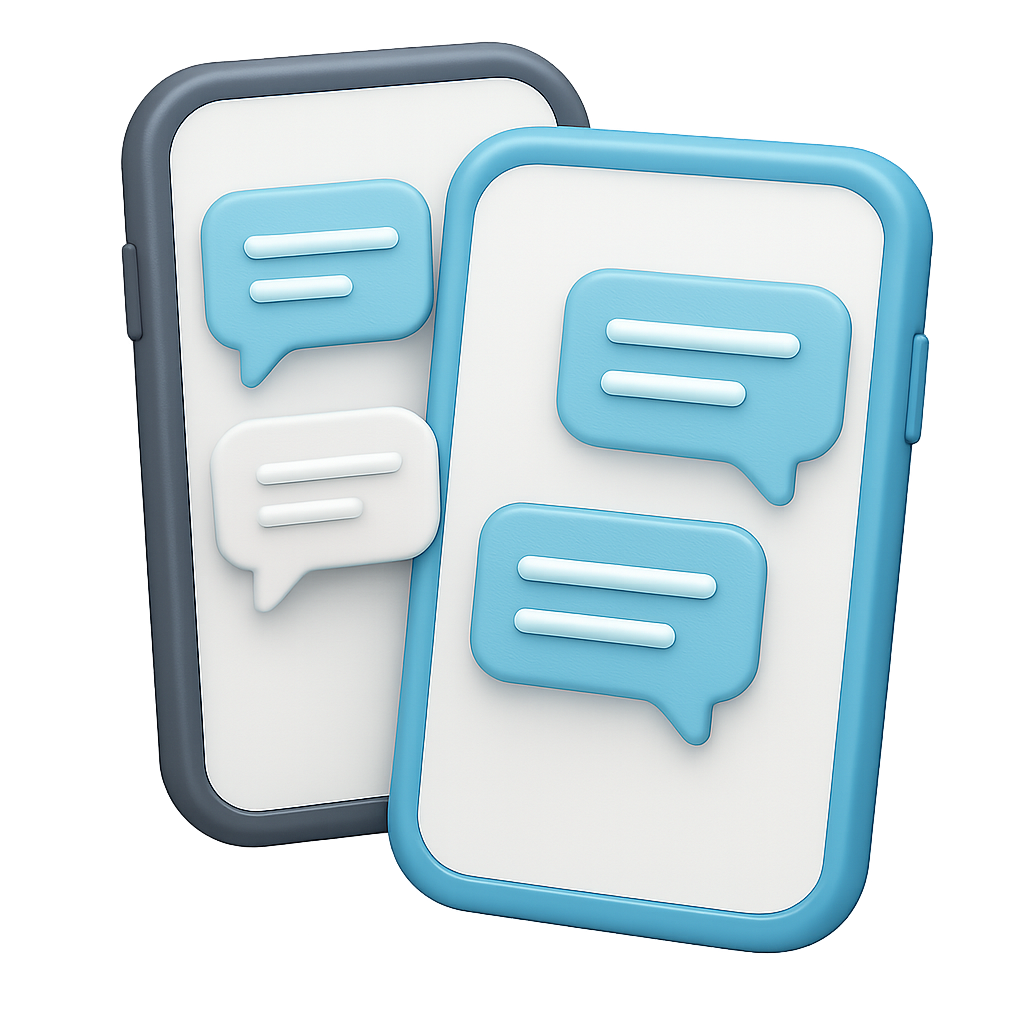
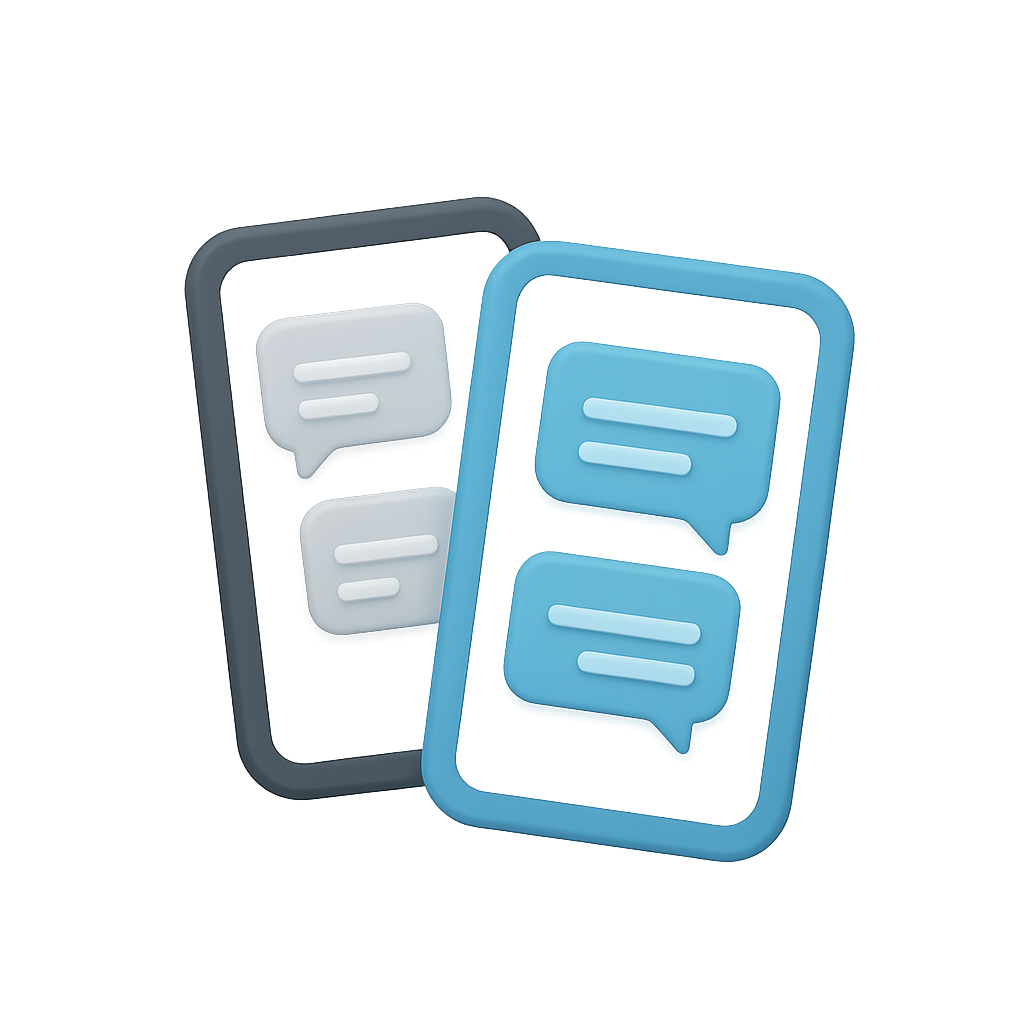
main

diff --git a/style/style.css b/style/style.css
@@ -286,16 +286,17 @@ border-radius: 10px;
 
 /* / О нас / */
 .about {
+    position: relative;
     max-width: 1400px;
     display: flex;
     align-items: center;
-    justify-content: space-around;
+    justify-content: space-evenly;
     text-align: left;
     gap: 40px;
 }
 
 .about-text > h2{
-    font-size: 45px;
+    font-size: 65px;
 }
 
 .about-text ul {
@@ -312,6 +313,25 @@ border-radius: 10px;
 .about-img img {
     border-radius: 50%;
     width: 25vw;
+}
+
+.bg-flowers{
+    position: absolute;
+    width: 550px;
+    opacity: 0.8;
+}
+
+.bg-flowers:nth-child(1){
+    top: -100px;
+    left: -250px;
+    rotate: -45deg;
+}
+
+.bg-flowers:nth-child(2){
+    rotate: -45deg;
+    transform: scale(-1, -1);
+    top: 25px;
+    right: -225px;
 }
 
 /* / Инфо-блоки / */
@@ -335,7 +355,7 @@ border-radius: 10px;
 
 .info-item > img {
     align-self: center;
-    max-width: 50%;
+    max-width: 256px;
     /* height: 50%; */
 }
 

diff --git a/index.html b/index.html
@@ -9,7 +9,6 @@
 <link rel="shortcut icon" href="./media/img/favicon.ico" type="image/x-icon">
 <link rel="stylesheet" href="https://cdn.jsdelivr.net/npm/swiper@11/swiper-bundle.min.css"/>
 <script src="https://cdn.jsdelivr.net/npm/swiper@11/swiper-bundle.min.js"></script>
-
 </head>
 <body>
 
@@ -62,8 +61,9 @@
 
 
 <section id="about" class="about container">
-<div class="about-text">
-<h2>Ваша букетная мастерская</h2>
+<img src="./media/img/flowers_01.png" alt="" class="bg-flowers">
+<img src="./media/img/flowers_01.png" alt="" class="bg-flowers"><div class="about-text">
+<h2>Ваша <br> букетная <br> мастерская</h2>
 <p class="description">
     Привет! Меня зовут, Илона🙂<br>
     Именно я создаю для Вас авторские букеты и подарки <br>
